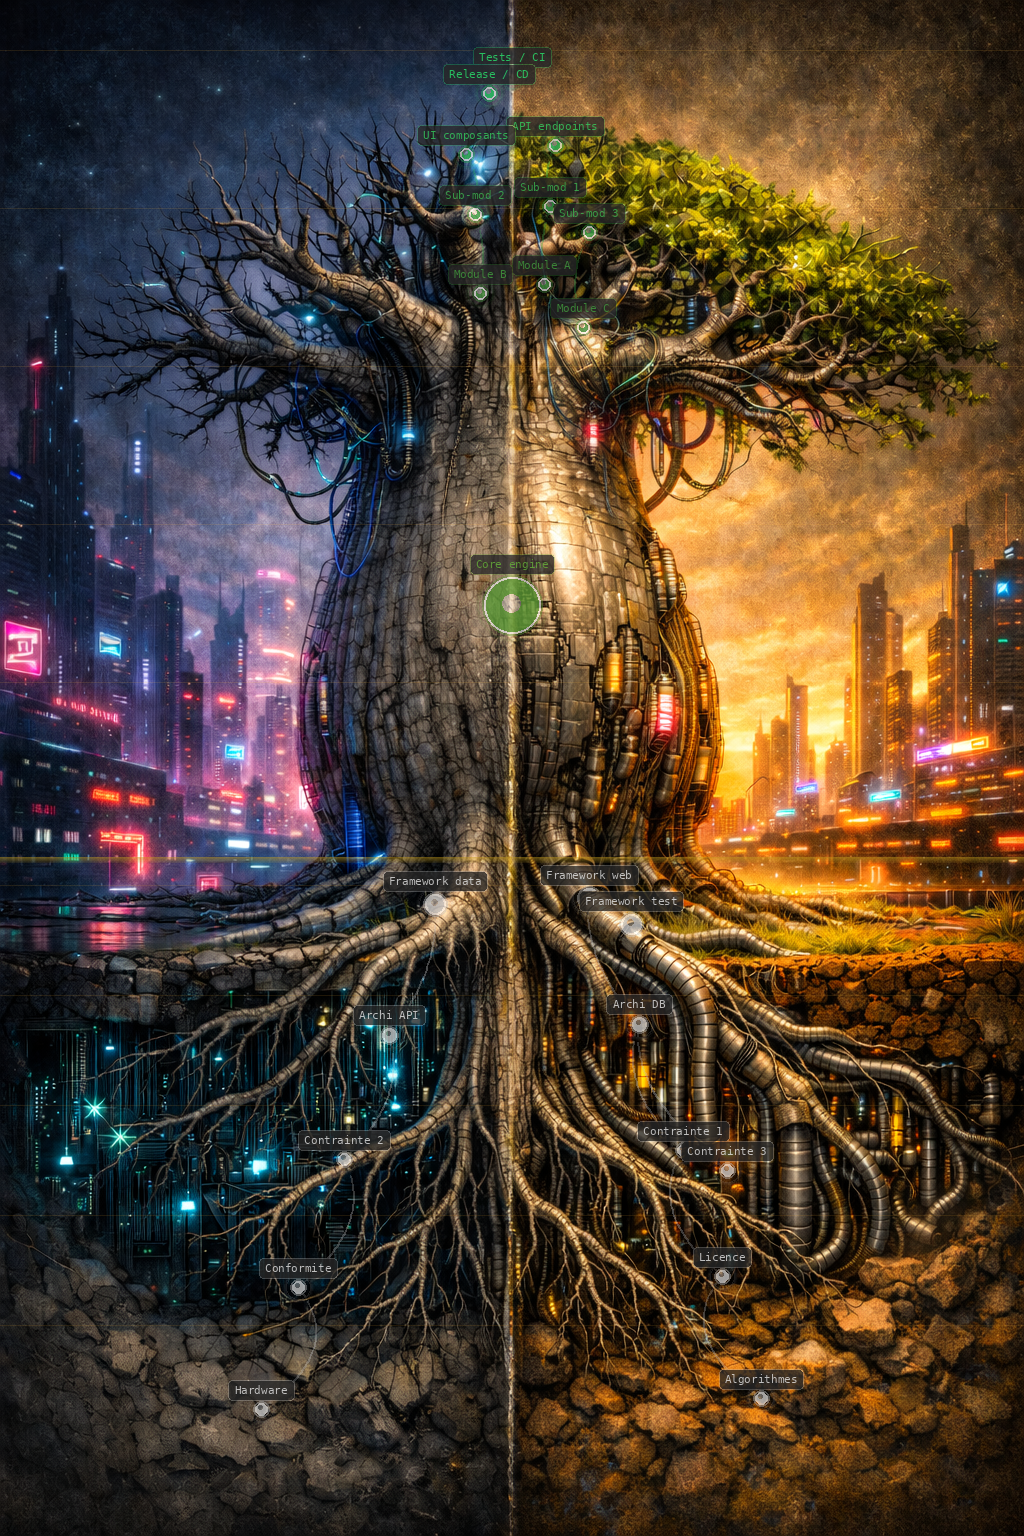
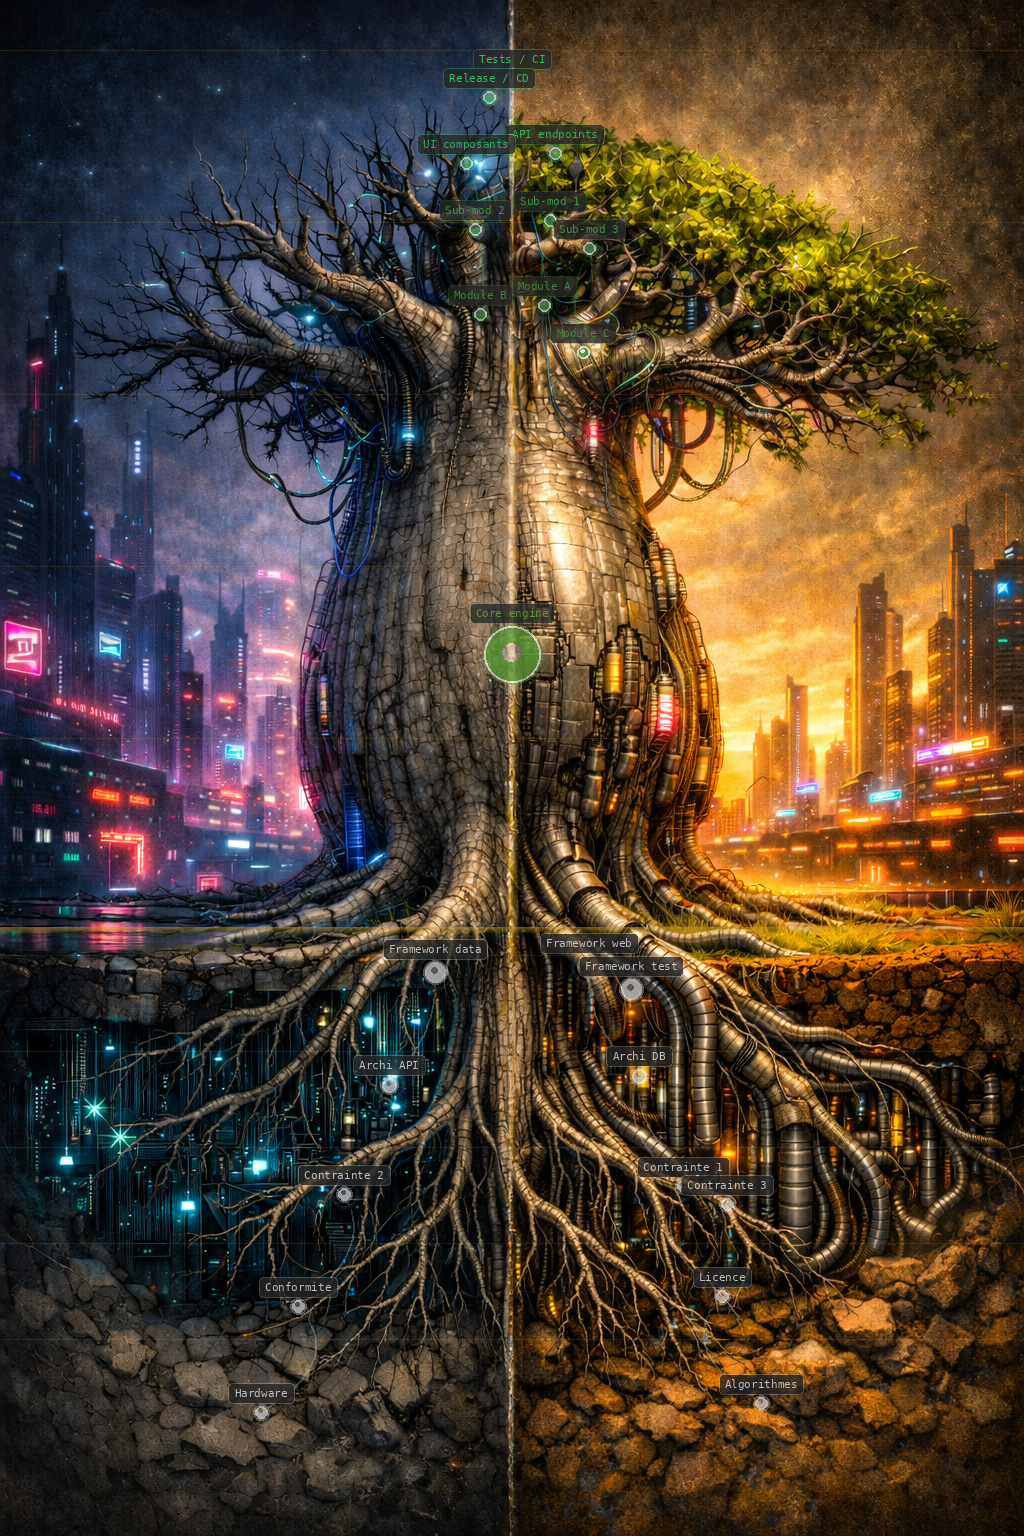
🎯 Baobab SOL_Y=930 — calé visuellement avec Sky

diff --git a/gen_all_skeletons.py b/gen_all_skeletons.py
@@ -26,7 +26,7 @@ SOL_Y = sy(575)  # default, overridden per family below
 FAMILY_SOL_Y = {
     "conifere": 890,
     "feuillu":  720,
-    "baobab":   860,
+    "baobab":   930,
     "palmier":  885,
     "buisson":  730,
     "liane":    815,

diff --git a/render_tree.py b/render_tree.py
@@ -13,7 +13,7 @@ TGT_W, TGT_H = 1024, 1536
 FAMILY_SOL_Y = {
     "conifere": 890,
     "feuillu":  720,
-    "baobab":   860,
+    "baobab":   930,
     "palmier":  885,
     "buisson":  730,
     "liane":    815,
